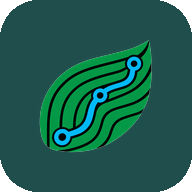
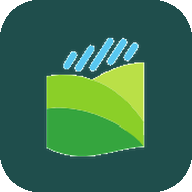
irricad-viewer v1.9.2: icone de instalacao agora e o simbolo do IrriCAD
O icone da TophoFarm (usado na v1.9.1) ja esta em outro app do usuario
(Coletor de Pontos) -- os dois ficavam identicos na tela inicial do
celular, sem como diferenciar. Trocado pelo simbolo do proprio IrriCAD
(recortado do logo oficial, fundo branco removido) sobre o mesmo fundo
verde-azulado da marca, nas 3 variantes do manifest.

Changed region(s): [[0.1875, 0.1875, 0.8125, 0.8438]]

diff --git a/irricad-viewer/irricad-viewer.html b/irricad-viewer/irricad-viewer.html
@@ -1,10 +1,10 @@
 <!DOCTYPE html>
-<!-- build 2026-09-30 v1.9.1 -->
+<!-- build 2026-10-01 v1.9.2 -->
 <html lang="pt-BR">
 <head>
 <meta charset="UTF-8">
 <meta name="viewport" content="width=device-width, initial-scale=1.0, maximum-scale=1.0, user-scalable=no, viewport-fit=cover">
-<title>Visualizador IrriCAD v1.9.1 &middot; TophoFarm</title>
+<title>Visualizador IrriCAD v1.9.2 &middot; TophoFarm</title>
 <meta name="theme-color" content="#1f4e4c">
 <link rel="manifest" href="manifest.json">
 <link rel="apple-touch-icon" href="icon-192.png">
@@ -252,8 +252,9 @@ html,body{height:100%;overflow:hidden;font-family:'Segoe UI',system-ui,sans-seri
 /* ==================================================================
    VERSAO / HISTORICO
    ================================================================== */
-const VERSAO_APP = '1.9.1';
+const VERSAO_APP = '1.9.2';
 const HISTORICO_VERSOES = [
+  {v:'1.9.2', d:'01/10/2026', t:'Ícone de instalação trocado de novo: agora é o símbolo do IrriCAD (o ícone da TophoFarm já é usado por outro app, ficava difícil diferenciar os dois na tela inicial do celular).'},
   {v:'1.9.1', d:'30/09/2026', t:'Ícone de instalação trocado: era um pino genérico, agora é o símbolo da TophoFarm sobre fundo verde-azulado — o que aparece na tela inicial do celular ao instalar o app.'},
   {v:'1.9.0', d:'30/09/2026', t:'Offline de verdade: o mapa (Leaflet) e o leitor de KMZ (JSZip) agora ficam guardados no próprio aparelho em vez de serem buscados da internet toda vez — igual ao Coletor de Pontos. Depois de abrir o app uma vez com sinal, ele continua funcionando (inclusive reabrindo o último projeto salvo) sem internet nenhuma em campo.'},
   {v:'1.8.1', d:'28/09/2026', t:'Achada a causa real do mapa girar errado no modo navegação: o comando que gira o mapa (setBearing) tinha o sentido invertido — girava para o lado oposto ao necessário. Corrigido e conferido nas 4 direções (Norte/Sul/Leste/Oeste): agora, pra onde você anda fica de verdade voltado pra cima na tela.'},

diff --git a/irricad-viewer/sw.js b/irricad-viewer/sw.js
@@ -1,5 +1,5 @@
 /* Service worker - app, mapa e projetos abertos funcionam offline em campo */
-var CACHE = "irricad-viewer-v5";
+var CACHE = "irricad-viewer-v6";
 var TILES = "tiles-esri-v1"; /* imagens de satelite ja vistas; nao apaga nas atualizacoes */
 var ARQS = ["./", "./irricad-viewer.html", "./manifest.json", "./icon-192.png", "./icon-512.png", "./icon-maskable.png",
   "./tophofarm-simbolo.png", "./tophofarm-logo-completo.png", "./irricad-logo.png",
